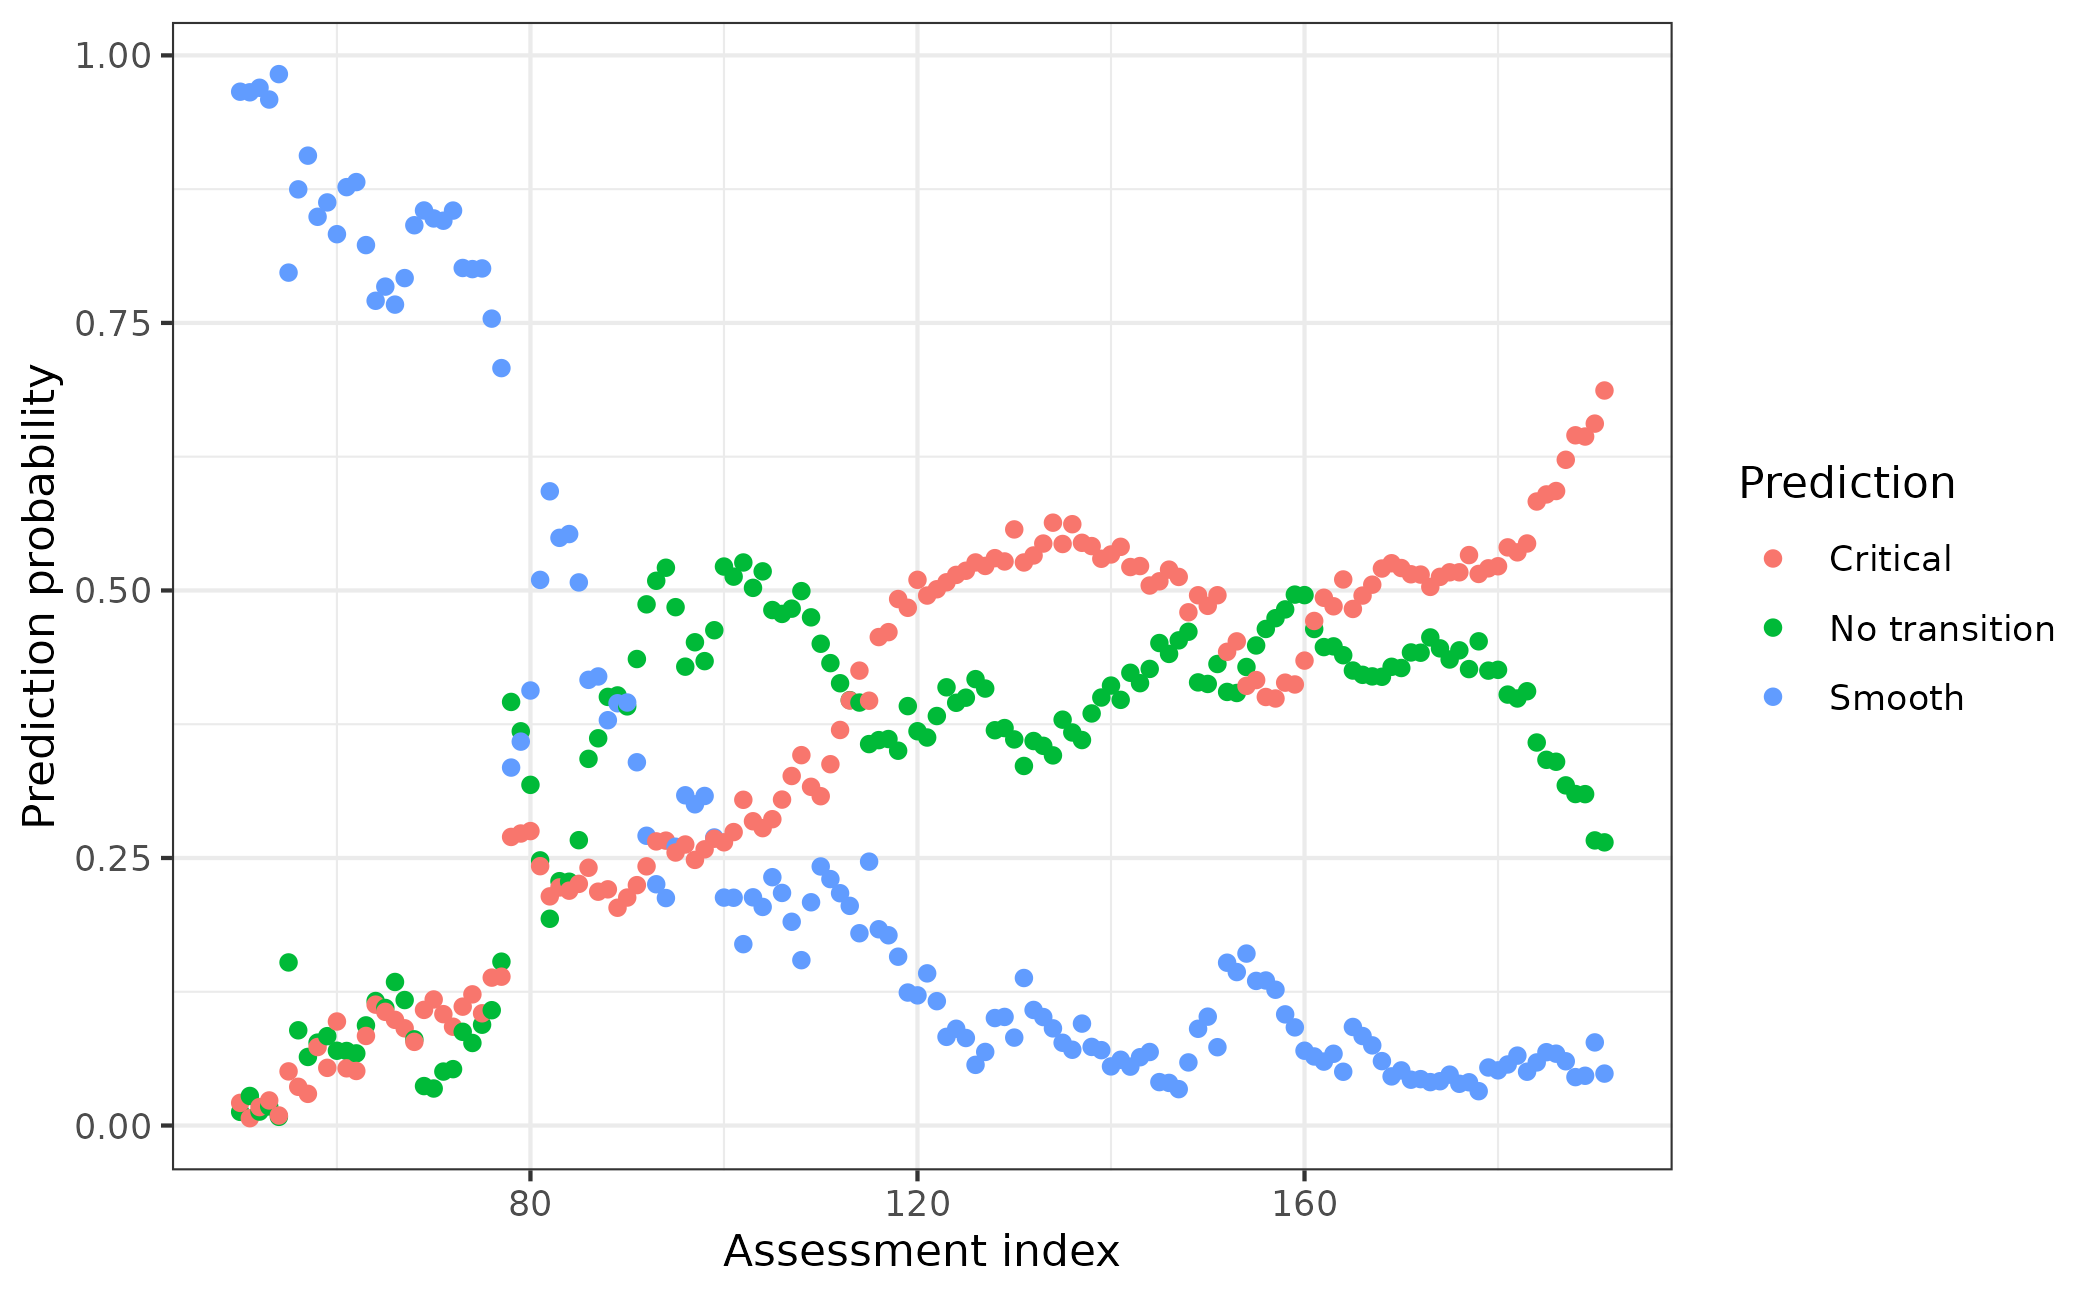
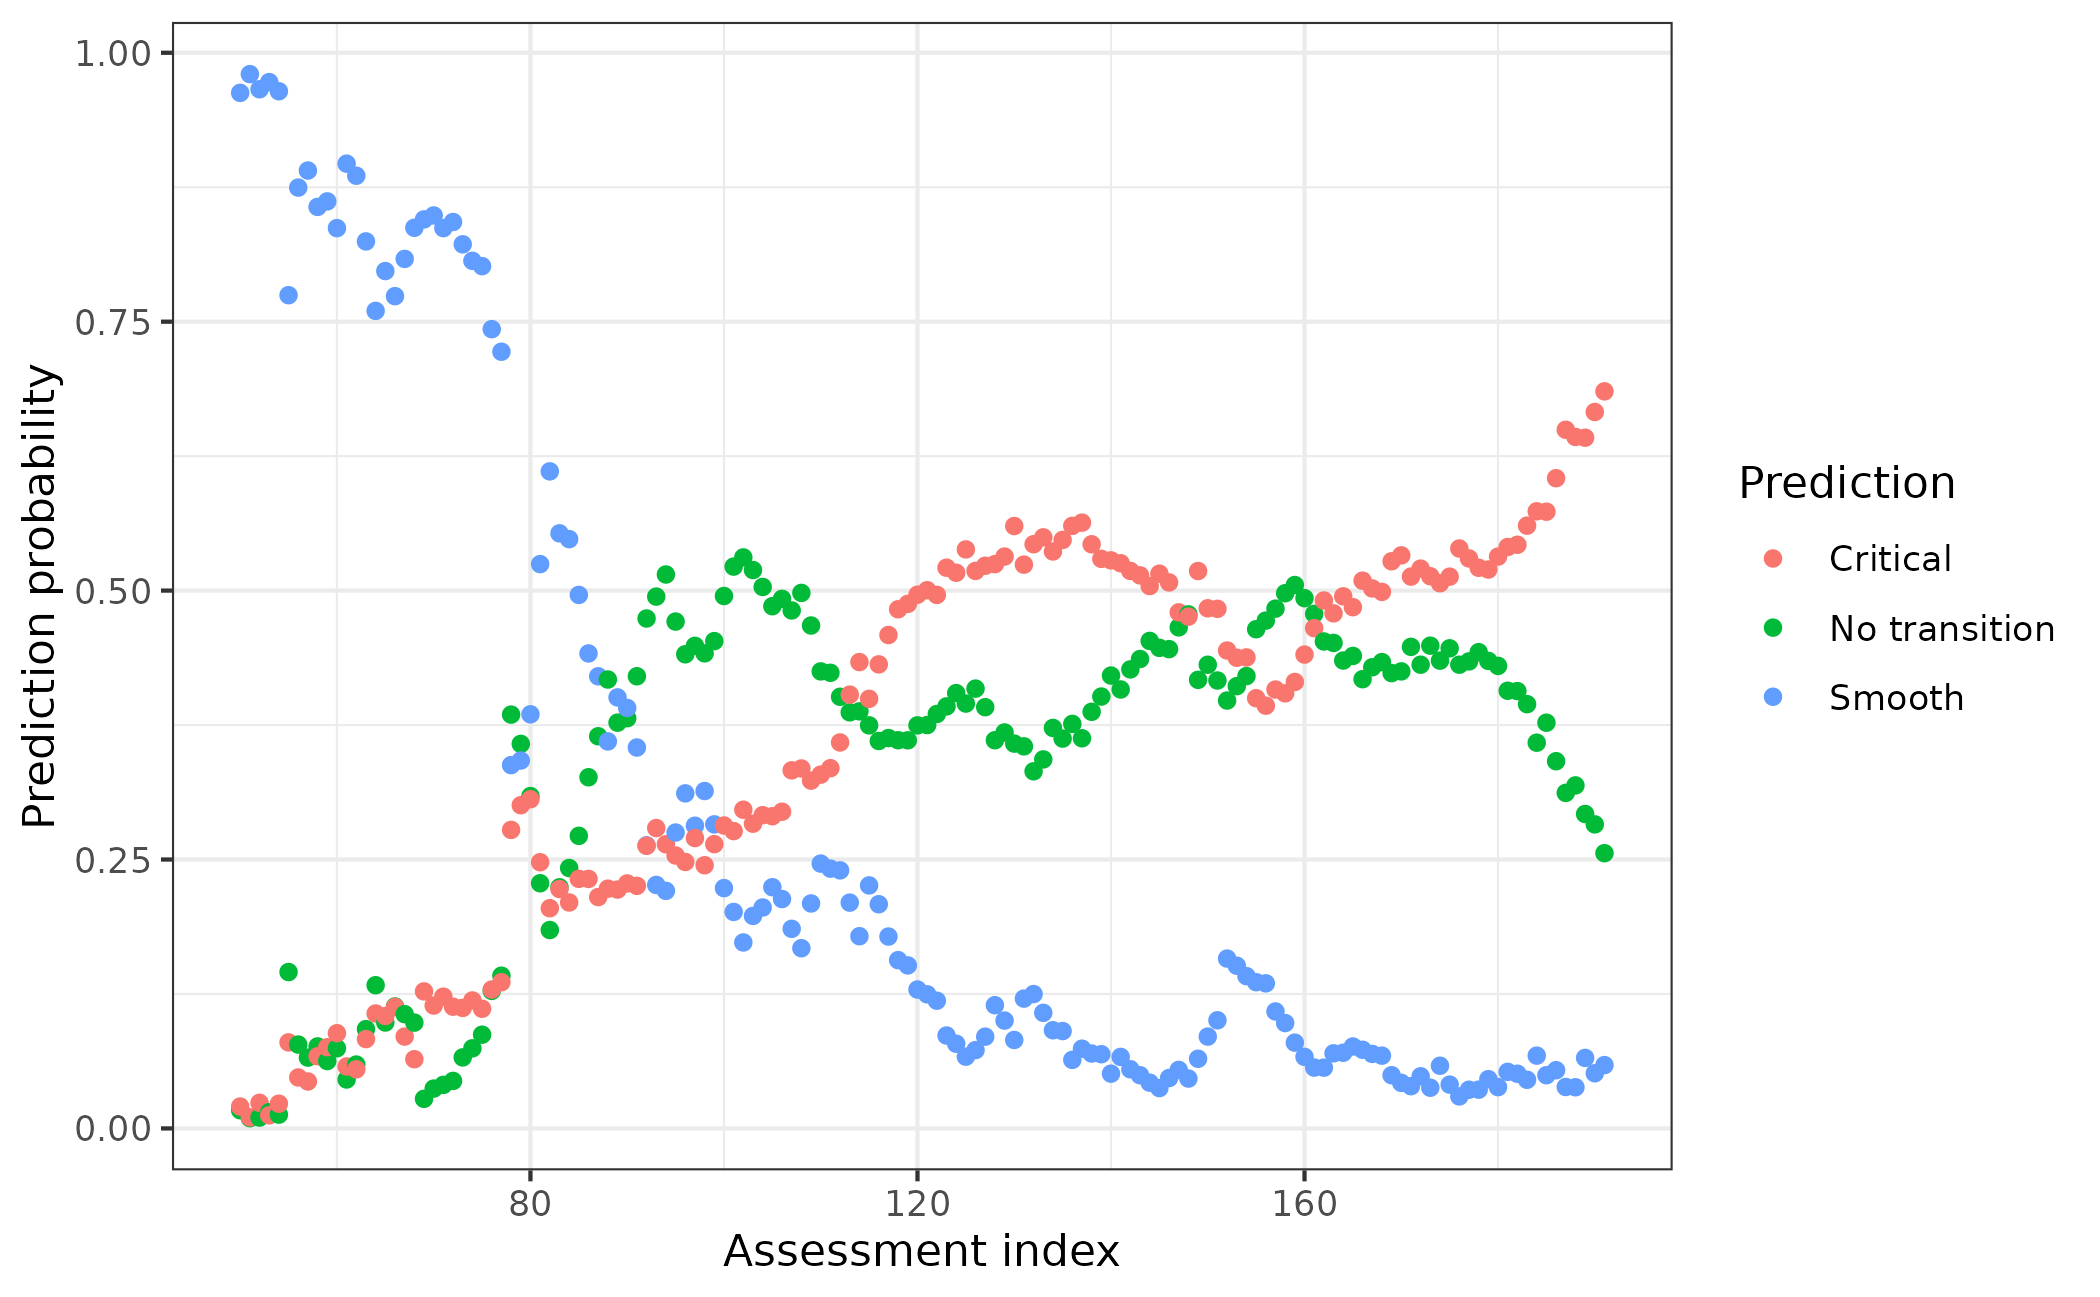
Deploying to gh-pages from @ duncanobrien/EWSmethods@da10e1b4f04d6b16dd1a3eae7ec7b0184329cf8b 🚀

diff --git a/articles/using_ewsnet.html b/articles/using_ewsnet.html
@@ -85,7 +85,7 @@
       <img src="../logo.svg" class="logo" alt=""><h1>Using EWSNet</h1>
                         <h4 data-toc-skip class="author">Duncan O’Brien</h4>
             
-            <h4 data-toc-skip class="date">2022-09-20</h4>
+            <h4 data-toc-skip class="date">2022-09-22</h4>
       
       <small class="dont-index">Source: <a href="https://github.com/duncanobrien/EWSmethods/blob/HEAD/vignettes/using_ewsnet.Rmd" class="external-link"><code>vignettes/using_ewsnet.Rmd</code></a></small>
       <div class="d-none name"><code>using_ewsnet.Rmd</code></div>
@@ -167,7 +167,7 @@
 <span></span>
 <span><span class="va">ewsnet_prediction</span></span>
 <span><span class="co">#&gt;                  pred no_trans_prob smooth_trans_prob critical_trans_prob</span></span>
-<span><span class="co">#&gt; 1 Critical Transition     0.2637013        0.05644039           0.6798583</span></span></code></pre></div>
+<span><span class="co">#&gt; 1 Critical Transition     0.2714142        0.04740743           0.6811783</span></span></code></pre></div>
 <div class="section level4">
 <h4 id="interpreting-ewsnet">Interpreting EWSNet<a class="anchor" aria-label="anchor" href="#interpreting-ewsnet"></a>
 </h4>

diff --git a/articles/ews_assessments.html b/articles/ews_assessments.html
@@ -85,7 +85,7 @@
       <img src="../logo.svg" class="logo" alt=""><h1>Performing Early Warning Signal Assessments</h1>
                         <h4 data-toc-skip class="author">Duncan O’Brien</h4>
             
-            <h4 data-toc-skip class="date">2022-09-20</h4>
+            <h4 data-toc-skip class="date">2022-09-22</h4>
       
       <small class="dont-index">Source: <a href="https://github.com/duncanobrien/EWSmethods/blob/HEAD/vignettes/ews_assessments.Rmd" class="external-link"><code>vignettes/ews_assessments.Rmd</code></a></small>
       <div class="d-none name"><code>ews_assessments.Rmd</code></div>
